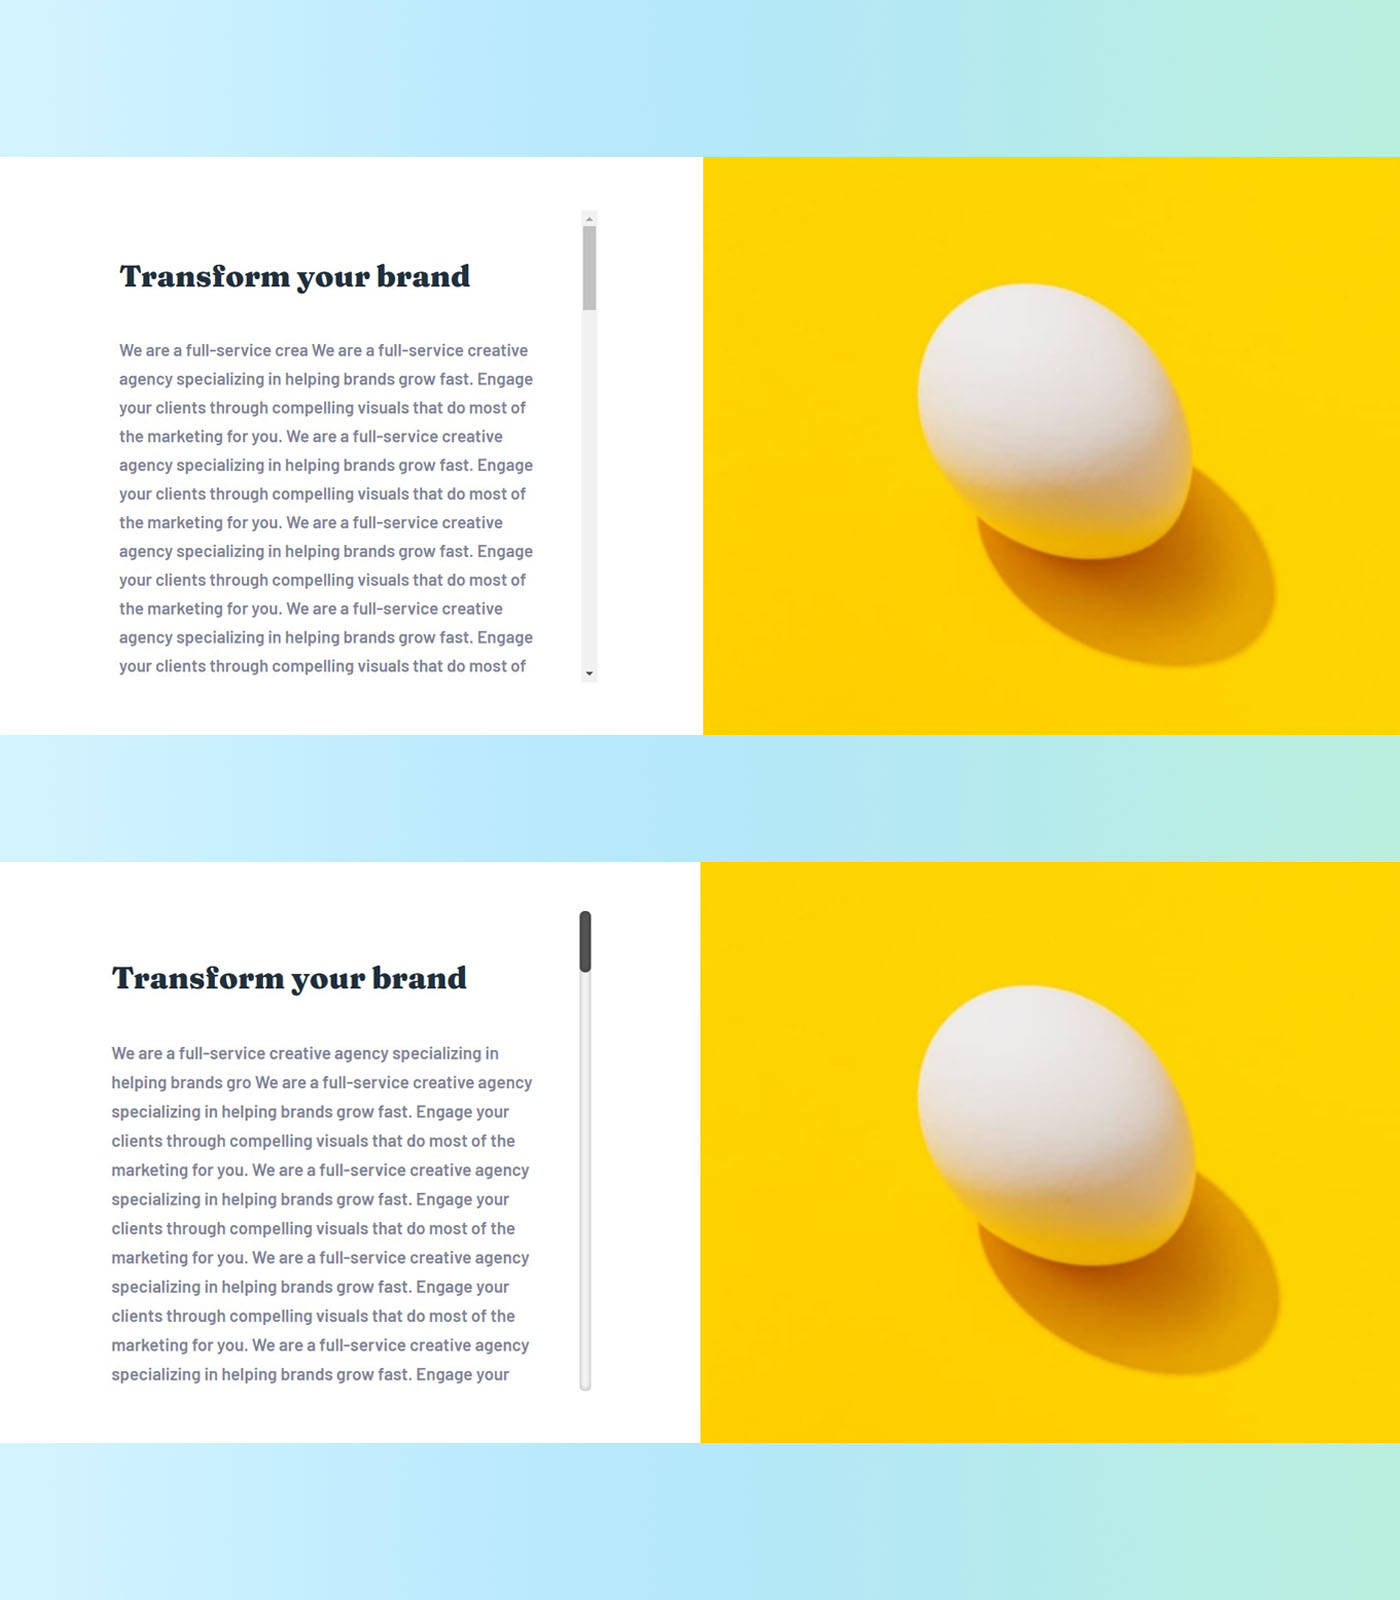
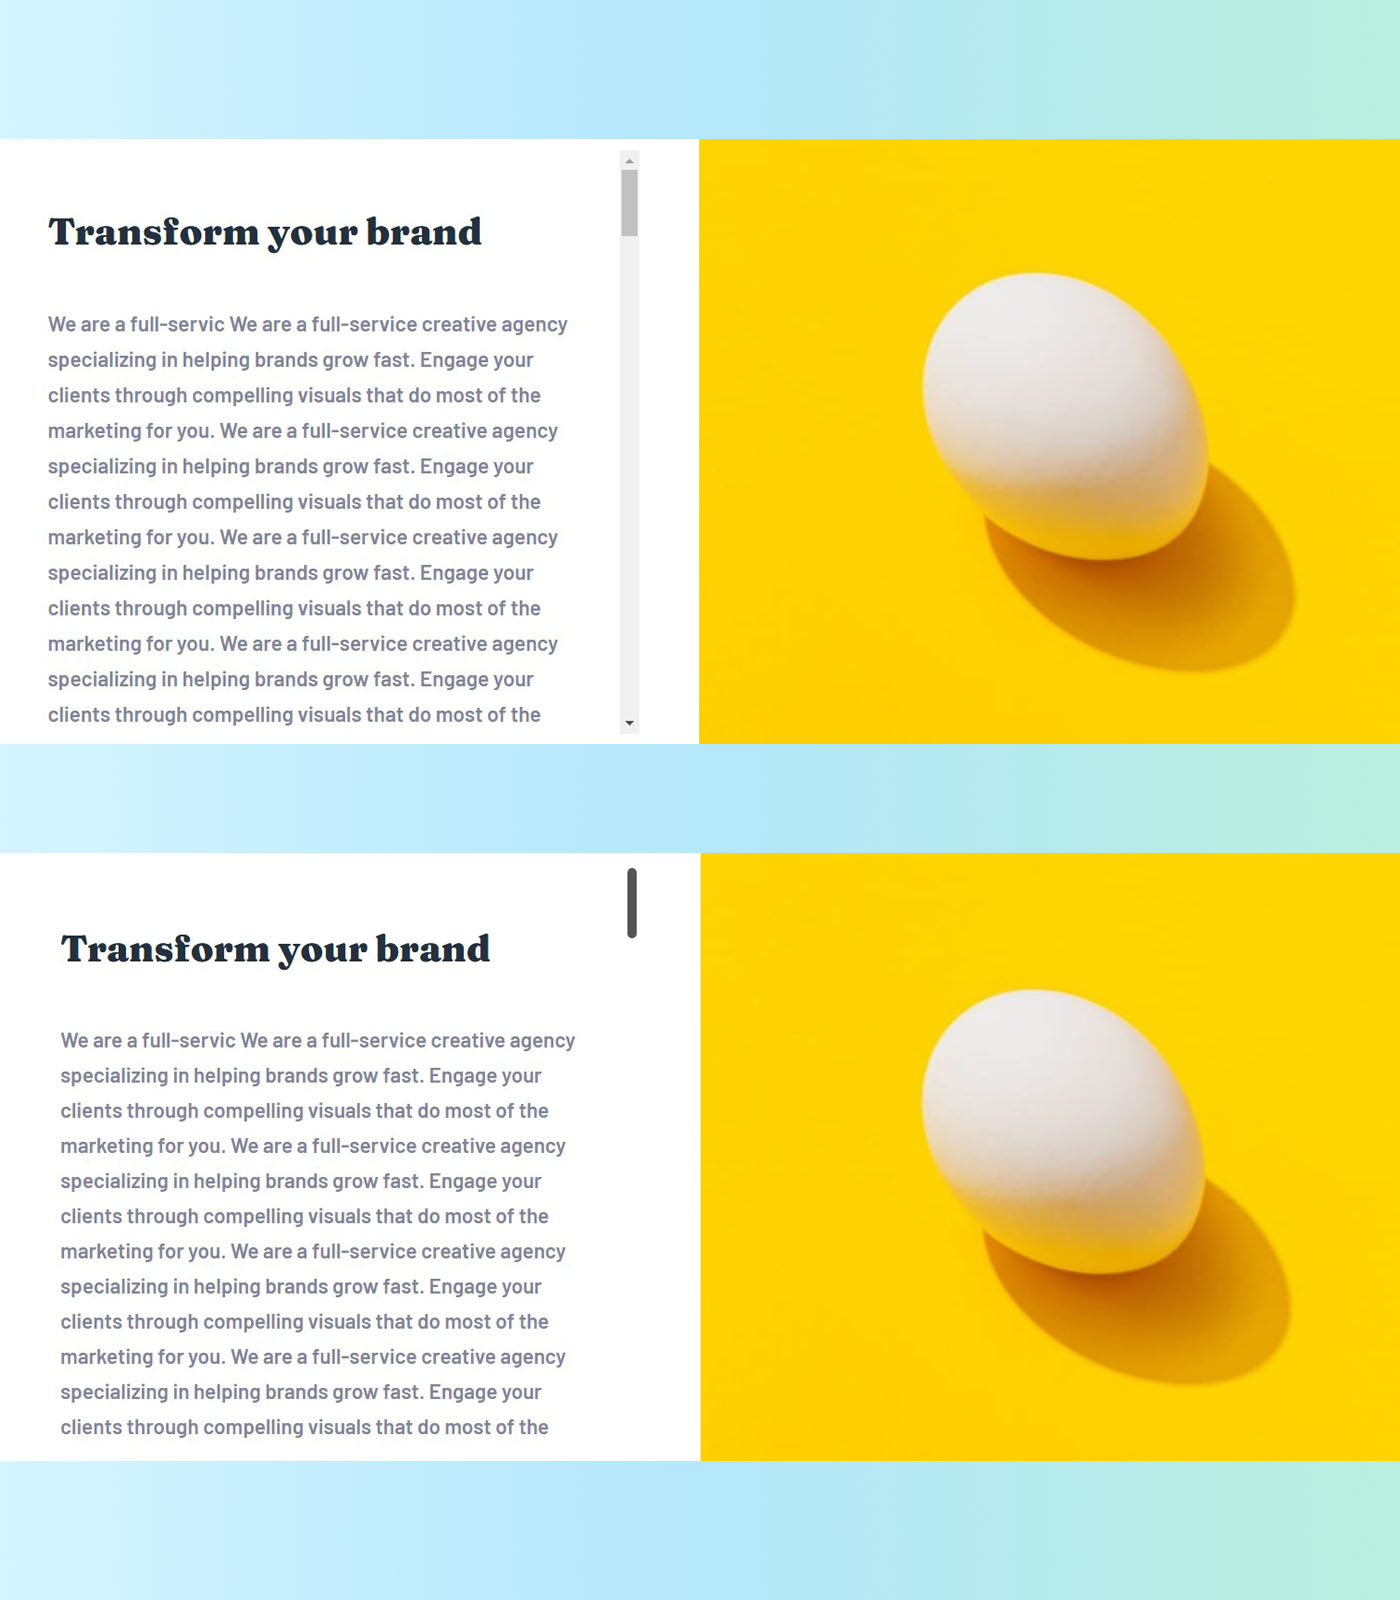
Finish README-zh

diff --git a/scss/main.scss b/scss/main.scss
@@ -265,19 +265,17 @@ a {
     overflow: auto;
 
     &::-webkit-scrollbar-track {
-      -webkit-box-shadow: inset 0 0 6px rgba(0, 0, 0, 0.3);
       border-radius: 10px;
       background-color: transparent;
     }
 
     &::-webkit-scrollbar {
-      width: 12px;
+      width: 8px;
       background-color: transparent;
     }
 
     &::-webkit-scrollbar-thumb {
       border-radius: 10px;
-      -webkit-box-shadow: inset 0 0 6px rgba(0, 0, 0, 0.3);
       background-color: #555;
     }
   }
@@ -486,19 +484,17 @@ a {
       max-height: 500px;
       overflow: auto;
       &::-webkit-scrollbar-track {
-        -webkit-box-shadow: inset 0 0 6px rgba(0, 0, 0, 0.3);
         border-radius: 10px;
-        background-color: #f5f5f5;
+        background-color: transparent;
       }
 
       &::-webkit-scrollbar {
-        width: 12px;
-        background-color: #f5f5f5;
+        width: 8px;
+        background-color: transparent;
       }
 
       &::-webkit-scrollbar-thumb {
         border-radius: 10px;
-        -webkit-box-shadow: inset 0 0 6px rgba(0, 0, 0, 0.3);
         background-color: #555;
       }
     }

diff --git a/css/main.css b/css/main.css
@@ -353,17 +353,15 @@ a {
   overflow: auto;
 }
 .service-card .txt::-webkit-scrollbar-track {
-  -webkit-box-shadow: inset 0 0 6px rgba(0, 0, 0, 0.3);
   border-radius: 10px;
   background-color: transparent;
 }
 .service-card .txt::-webkit-scrollbar {
-  width: 12px;
+  width: 8px;
   background-color: transparent;
 }
 .service-card .txt::-webkit-scrollbar-thumb {
   border-radius: 10px;
-  -webkit-box-shadow: inset 0 0 6px rgba(0, 0, 0, 0.3);
   background-color: #555;
 }
 .service-card--design {
@@ -537,17 +535,15 @@ a {
     overflow: auto;
   }
   .feature-card__content::-webkit-scrollbar-track {
-    -webkit-box-shadow: inset 0 0 6px rgba(0, 0, 0, 0.3);
     border-radius: 10px;
-    background-color: #f5f5f5;
+    background-color: transparent;
   }
   .feature-card__content::-webkit-scrollbar {
-    width: 12px;
-    background-color: #f5f5f5;
+    width: 8px;
+    background-color: transparent;
   }
   .feature-card__content::-webkit-scrollbar-thumb {
     border-radius: 10px;
-    -webkit-box-shadow: inset 0 0 6px rgba(0, 0, 0, 0.3);
     background-color: #555;
   }
   .feature-card__txt {

diff --git a/README.md b/README.md
@@ -11,11 +11,13 @@ Frontend Mentor challenges 是一個藉由實際建立專案，來提升 coding 
   - [網站連結](#連結)
 - [工作流程](#工作流程)
   - [使用的工具](#使用的工具)
+  - [架構圖](#架構圖)
 - [我學到什麼](#我學到什麼)
 - [特色](#特色)
 - [問題回報](#問題回報)
 - [關於作者](#關於作者)
 - [致謝](#致謝)
+- [參考資料](#參考資料)
 
 ## 總覽
 
@@ -55,13 +57,18 @@ Frontend Mentor challenges 是一個藉由實際建立專案，來提升 coding 
 - Semantic HTML5 markup
 - Flex-box
 - Grid-box
+- @keyframe (箭頭動畫)
 - SCSS (preprocessor)
 - BEM (methodology)
-- Vanilla JavaScript
+- Vanilla JavaScript (導覽列開關)
 - [Reset.css](https://meyerweb.com/eric/tools/css/reset/)
-- [jQuery](https://jquery.com/)
+- [jQuery](https://jquery.com/) (平滑滾軸)
 - [Google font](https://fonts.google.com/)
-- [Font Awesome](https://fontawesome.com/v5/changelog/latest)
+- [Font Awesome](https://fontawesome.com/v5/changelog/latest) (社群圖示)
+
+### 架構圖
+
+![structure](README-img/structure.jpg)
 
 ## 我學到什麼
 
@@ -266,7 +273,7 @@ svg path {
 
 - 關於文字或區塊之間的 `margin`，`padding` 則要視情況，如果設為%，則當寬度越大的時候，文字或區塊之間的間距也會跟著逐漸變大，所以這部分要自己斟酌。
 
-- 有些區塊的 `padding`，一樣，如果四個邊都有設 `padding`，那就要考慮到，當寬度越寬的時候，這個區塊的內容就會越往裡面推，所以要考慮**內容本身會不會隨著寬度增加而變大**？如果內容本身不會跟著變大的話，那差距就會越來越大。
+- 有些區塊的 `padding`，一樣，如果四個邊都有設 `padding`，那就要考慮到，當寬度越寬的時候，這個區塊的內容就會越往裡面推，所以要考慮**內容本身會不會隨著寬度增加而變大**？如果不會，那差距就隨著寬度會越來越大。
 
 - 如果希望一個區塊的`width`, `height`會隨著視窗增加的時候，或許就需要設%。
 
@@ -290,7 +297,7 @@ svg path {
 
 ### 不限字數的內容
 
-我在部分的內容區塊使用了`max-height`與`overflow`，讓文字內容可以不必有最大字數限制。
+我在部分的內容區塊使用了`max-height`與`overflow`，所以即便內容較多也不用擔心。
 
 ![feature-01](README-img/feature-01.gif)
 
@@ -309,30 +316,82 @@ svg path {
 
 ![feature-02](README-img/feature-02.jpg)
 
-<font size="2">⚠ 註：此方法僅適用於 Webkit 瀏覽器（Chrome or Safari），若有跨瀏覽器的需求，建議使用 JavaScript。</font>
+<font size="2">⚠ 注意：此方法僅適用於 Webkit 瀏覽器（Chrome or Safari），若有跨瀏覽器的需求，建議使用 JavaScript。</font>
 
 原始碼：
 
 ```scss
 &::-webkit-scrollbar-track {
-  -webkit-box-shadow: inset 0 0 6px rgba(0, 0, 0, 0.3);
   border-radius: 10px;
-  background-color: #f5f5f5;
+  background-color: transparent;
 }
 
 &::-webkit-scrollbar {
-  width: 12px;
-  background-color: #f5f5f5;
+  width: 8px;
+  background-color: transparent;
 }
 
 &::-webkit-scrollbar-thumb {
   border-radius: 10px;
-  -webkit-box-shadow: inset 0 0 6px rgba(0, 0, 0, 0.3);
   background-color: #555;
 }
 ```
 
 如果想了解更多的話，你也可以參考這個[網站](https://cssdeck.com/labs/css3-webkit-vertical-scrollbars)
+
+### 平滑滾軸效果
+
+![smooth-scroll](README-img/smooth-scroll.gif)
+
+如果想簡單快速的話，可以直接使用 CSS 中的`scroll-behavior: smooth`這個屬性，如下：
+
+```scss
+html {
+  scroll-behavior: smooth;
+}
+```
+
+<font size="2">⚠ 注意：此方法不適用於 Safari 及 IE</font>
+
+如果要考慮瀏覽器的支援度的話，建議還是使用 JavaScript 來實作會比較穩固。
+
+這邊是搭配 jQuery 來使用，因為 jQuery 在處理動畫的部分會比較輕鬆一些，不過如果你想要用原生 JavaScript 也不是不行？（只要有愛就沒問題了？😂）
+
+原始碼：
+
+```javascript
+// get element
+let arrowBtn = $('.arrow')
+// except the "logo" anchor and the "arrow" anchor
+let link = $('a[href="#"]:not(".arrow")')
+
+// event binding
+arrowBtn.on('click', function (e) {
+  // send event object to the function
+  scrollToFeatureSection(e)
+})
+link.on('click', function (e) {
+  // send event object to the function
+  scrollToTop(e)
+})
+
+// smooth scrolling
+function scrollToTop(e) {
+  // prevent default action of <a>
+  e.preventDefault()
+  // move to top
+  $('html, body').stop().animate({ scrollTop: 0 }, 800)
+}
+
+function scrollToFeatureSection(e) {
+  // prevent default action of <a>
+  e.preventDefault()
+  // get position of the feature section
+  let target = document.getElementById('feature').offsetTop
+  // move to the position
+  $('html, body').stop().animate({ scrollTop: target }, 800)
+}
+```
 
 ## 問題回報
 
@@ -359,6 +418,18 @@ svg path {
 - Facebook - [薛裕正](https://www.facebook.com/profile.php?id=100003593580513)
 
 ## 致謝
+
+最後，先向每一位看完這份 README 的你致謝，畢竟寫這份 README 其實也花了我不少時間，所以很謝謝你們願意花時間來閱讀。
+
+如果你從中學習到了一些新的知識，那對我會感到非常開心。
+
+當然，如果你有發現錯誤或是有其他更好的建議，也很歡迎給我回饋，你可以[寄信](mailto:jimdevelopesite@gmail.com)給我，或者聯絡我都可以。
+
+最後還是要向 Front Mentor 的作者謝謝，在這裡我學到的並不單單只是一些切版的練習，還學習到了很多跟前端相關的知識。
+
+雖然這只僅僅是我的第三個挑戰，但收穫遠比我預期中來得還要更多更多。
+
+學習前端的這條路也許還很長，但我會持續堅持下去，也希望未來能夠陸續的把其他想做的挑戰一個一個給完成。
 
 ## 參考資料
 
